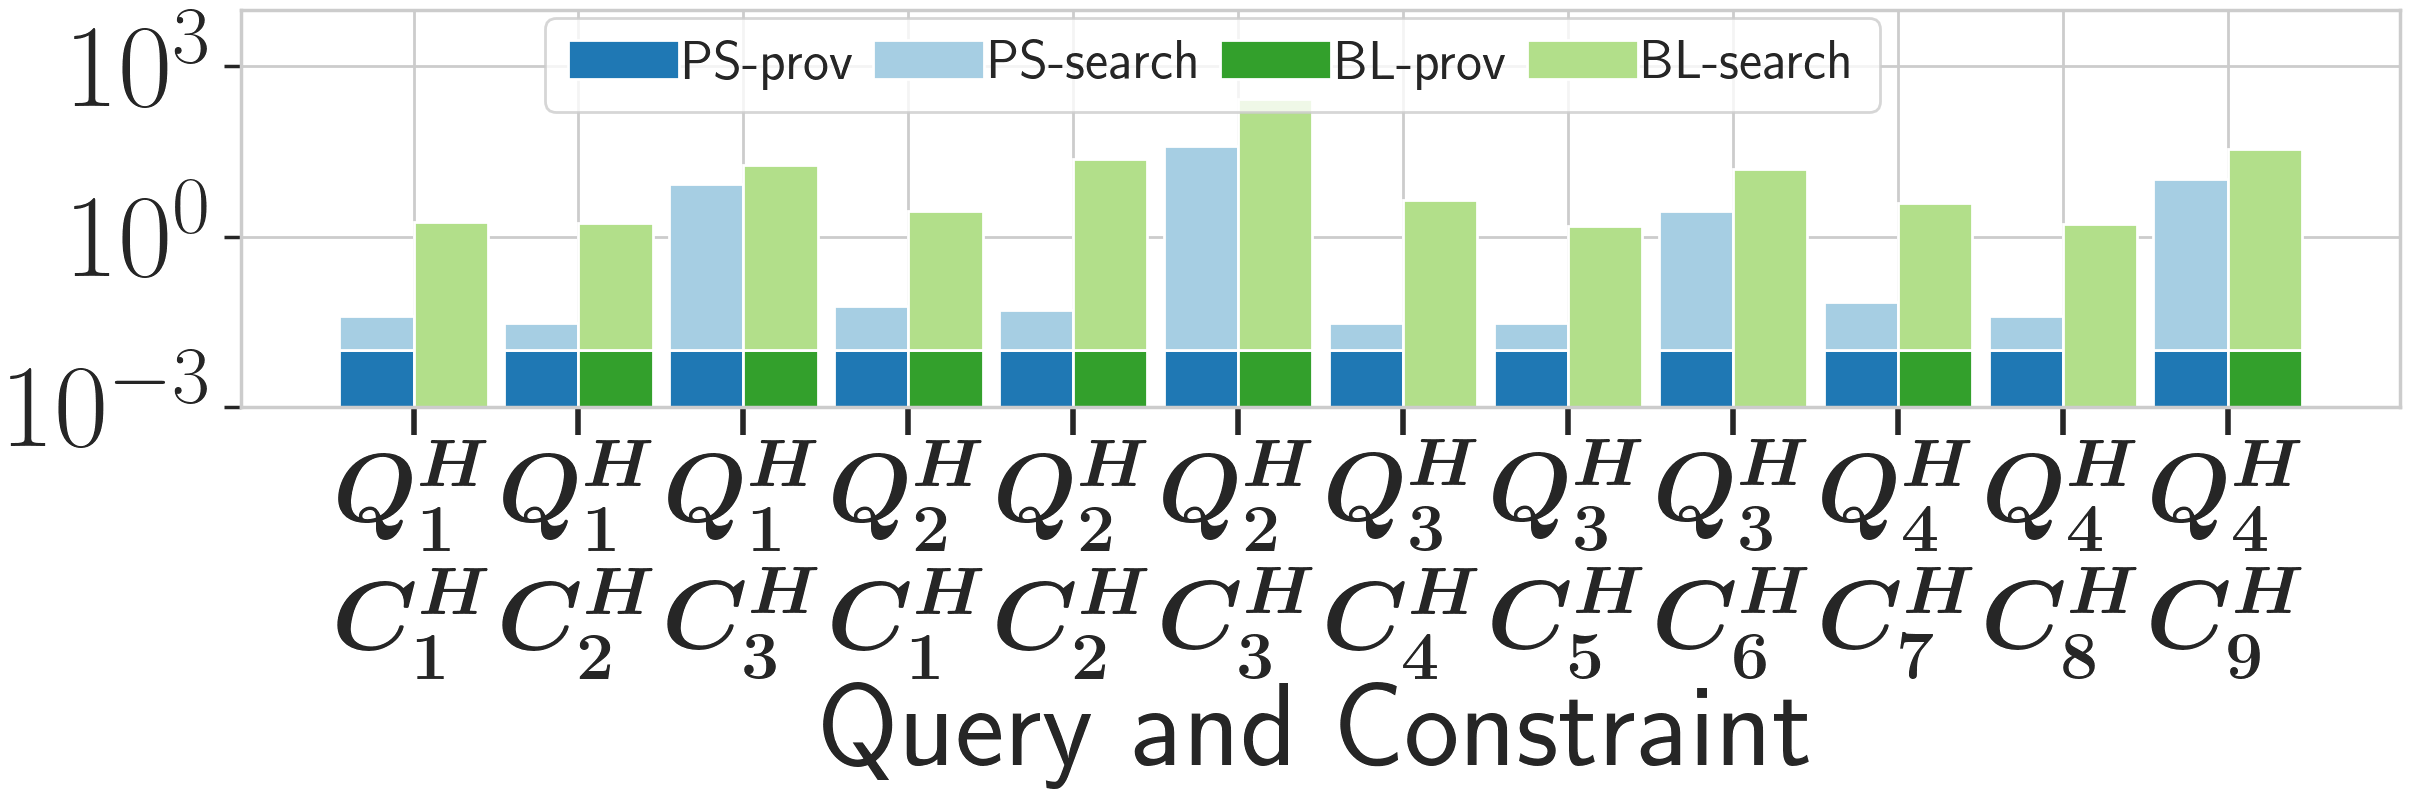
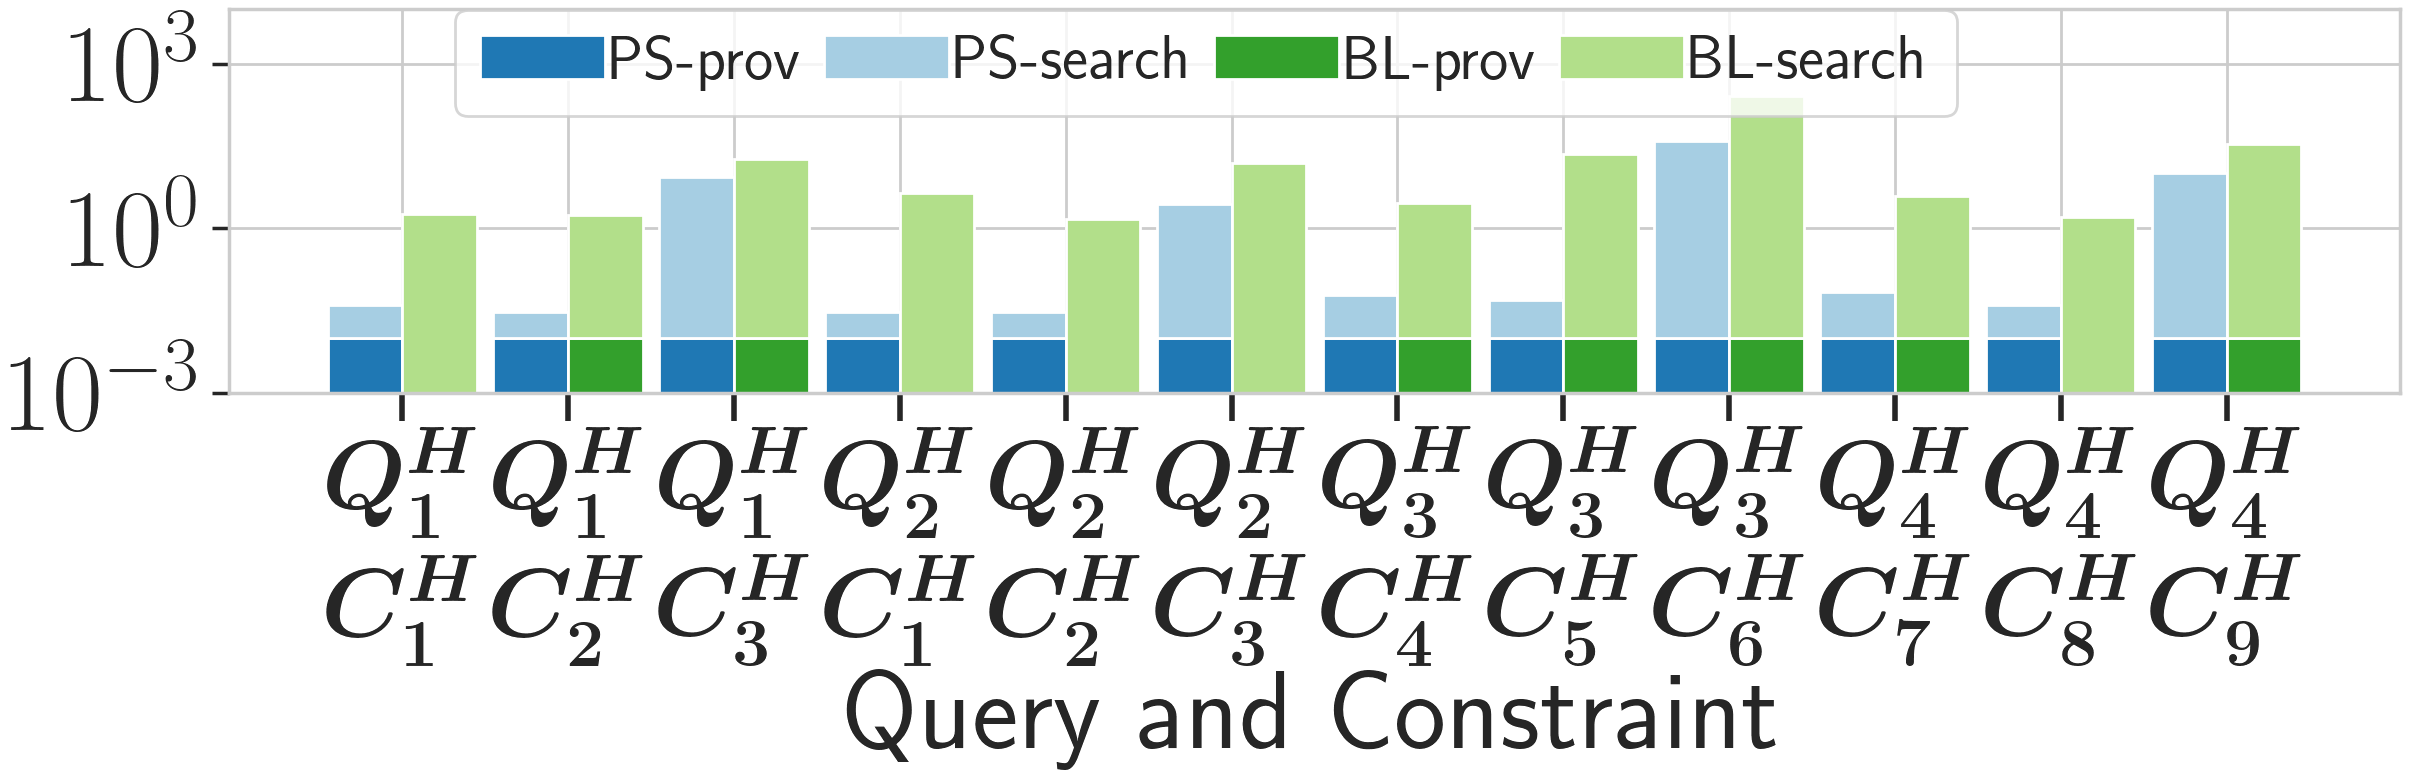
exp healthcare running time use constraints of q3 to q1

diff --git a/Experiment/healthcare/exp_3_runningtime/q1_same_constraints_as3/running_time_0.py b/Experiment/healthcare/exp_3_runningtime/q1_same_constraints_as3/running_time_0.py
@@ -10,7 +10,9 @@ import pandas as pd
 import time
 from intbitset import intbitset
 import json
+import sys
 
+sys.path.append('../../../../')
 from Algorithm import ProvenanceSearchValues_8_20230119 as ps
 from Algorithm import LatticeTraversal_5_20230121 as lt
 
@@ -31,7 +33,7 @@ result_output = open(result_output_file, "w")
 result_output.write("selection file, result\n")
 
 
-time_limit = 10*60
+time_limit = 60 * 60 * 3
 separator = ','
 
 def compare(q, c, time_output):
@@ -62,13 +64,14 @@ def compare(q, c, time_output):
     time_output.write("\n")
     idx = "Q" + str(q) + "C" + str(c)
     time_output.write("{},{:0.2f},{:0.2f},{:0.2f},{}\n".format(idx, running_time1, provenance_time1,
-                                                            search_time1,num_refinements1))
+                                                            search_time1, num_refinements1))
     if running_time2 < time_limit:
-        time_output.write("{},{:0.2f},{:0.2f},{:0.2f},{},"
-                          "{:0.2f},{:0.2f},{:0.2f},{}\n".format(idx, running_time1, provenance_time1, search_time1,num_refinements1,
+        time_output.write("{},{:0.2f},{:0.2f},{:0.2f},{}"
+                          "{:0.2f},{:0.2f},{:0.2f},{}\n".format(idx, running_time1, provenance_time1, search_time1,
+                                                                num_refinements1,
                                                              running_time2, provenance_time2, search_time2, num_refinements2))
     else:
-        time_output.write("{},{:0.2f},{:0.2f},{:0.2f},{},\n".format(idx, running_time1, provenance_time1,
+        time_output.write("{},{:0.2f},{:0.2f},{:0.2f},{},,,\n".format(idx, running_time1, provenance_time1,
                                                                    search_time1, num_refinements1))
     result_output.write("{}\n".format(idx))
     result_output.write(",".join(str(item) for item in minimal_refinements1))
@@ -90,7 +93,7 @@ def run(q, c):
 
 # run(1, 1)
 # run(1, 2)
-# run(1, 3)
-# run(3, 1)
-run(3, 1)
-# run(3, 3)
+run(1, 3)
+# run(2, 1)
+# run(2, 2)
+# run(2, 3)

diff --git a/Experiment/healthcare/exp_3_runningtime/fig.py b/Experiment/healthcare/exp_3_runningtime/fig.py
@@ -19,7 +19,7 @@ plt.rc('font', size=70, weight='bold')
 color = ['C1', 'C0', 'C3', 'C2']
 label = ['PS-prov', "PS-search", "BL-prov", "BL-search"]
 
-f_size = (13, 10)
+f_size = (12, 10)
 
 x_list = list()
 x_naive = list()
@@ -88,8 +88,8 @@ plt.xlabel('Query and Constraint', fontsize=70, weight='bold')
 # plt.ylabel('Running time (s)')
 plt.yscale('log')
 # plt.legend(loc='upper right', bbox_to_anchor=(1, 1.05), ncol=2, fontsize=40)
-lgnd = plt.legend(loc='upper center', bbox_to_anchor=(0.46, 1.2), fontsize=45, ncol=2, labelspacing=0.25,
-                  handletextpad=0.1, markerscale=0.5, columnspacing=0.3)
+lgnd = plt.legend(loc='upper center', bbox_to_anchor=(0.46, 1.2), fontsize=45, ncol=2, labelspacing=0.1,
+                  handletextpad=0.1, markerscale=0.5, columnspacing=0.4,frameon=False)
 
 plt.tight_layout()
 plt.savefig("healthcare_time.png", bbox_inches='tight')

diff --git a/Experiment/healthcare/exp_3_runningtime/fig_4q.py b/Experiment/healthcare/exp_3_runningtime/fig_4q.py
@@ -86,13 +86,13 @@ x_list = ['\\boldmath$Q^H_1$\n\\boldmath$C^H_1$', '\\boldmath$Q^H_1$\n\\boldmath
 #           '\\boldmath$Q^H_2$\\boldmath$C^H_3$']
 
 plt.xticks(np.arange(0, 12) + bar_width / 2, x_list, rotation=0, fontsize=70)
-plt.yticks(fontsize=85, weight='bold')
+plt.yticks(fontsize=80, weight='bold')
 
-plt.xlabel('Query and Constraint', fontsize=85, weight='bold')
+plt.xlabel('Query and Constraint', fontsize=80, weight='bold')
 # plt.ylabel('Running time (s)')
 plt.yscale('log')
 # plt.legend(loc='upper right', bbox_to_anchor=(1, 1.05), ncol=2, fontsize=40)
-lgnd = plt.legend(loc='upper center', bbox_to_anchor=(0.45, 1.05), fontsize=40, ncol=4, labelspacing=0.25,
+lgnd = plt.legend(loc='upper center', bbox_to_anchor=(0.45, 1.08), fontsize=45, ncol=4, labelspacing=0.25,
                   handletextpad=0.1, markerscale=0.5, columnspacing=0.3)
 
 plt.tight_layout()
